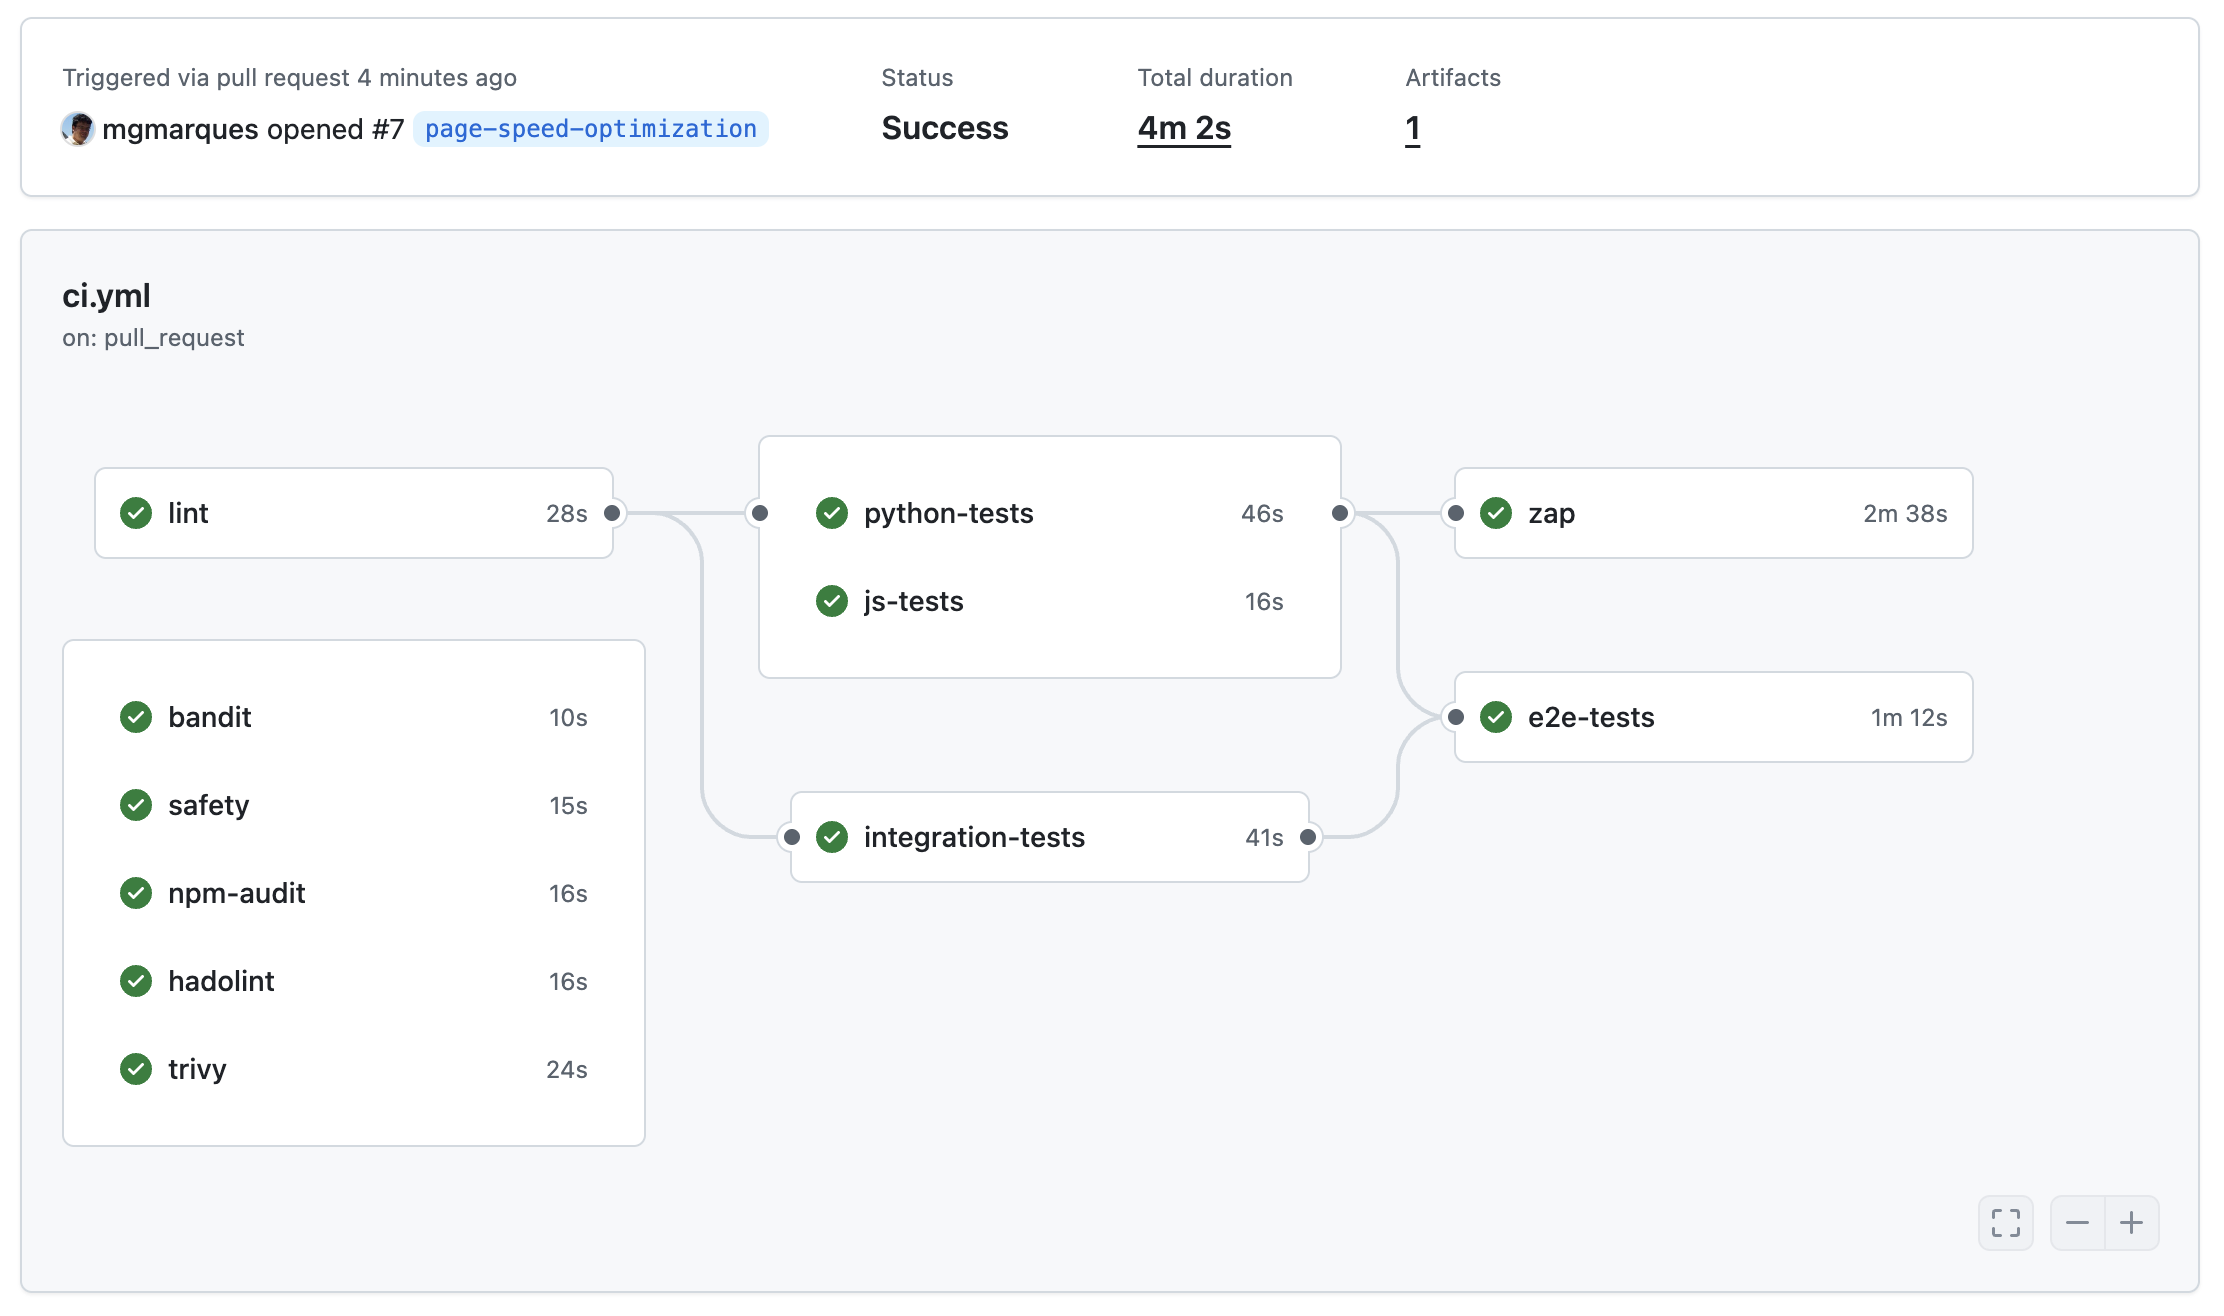
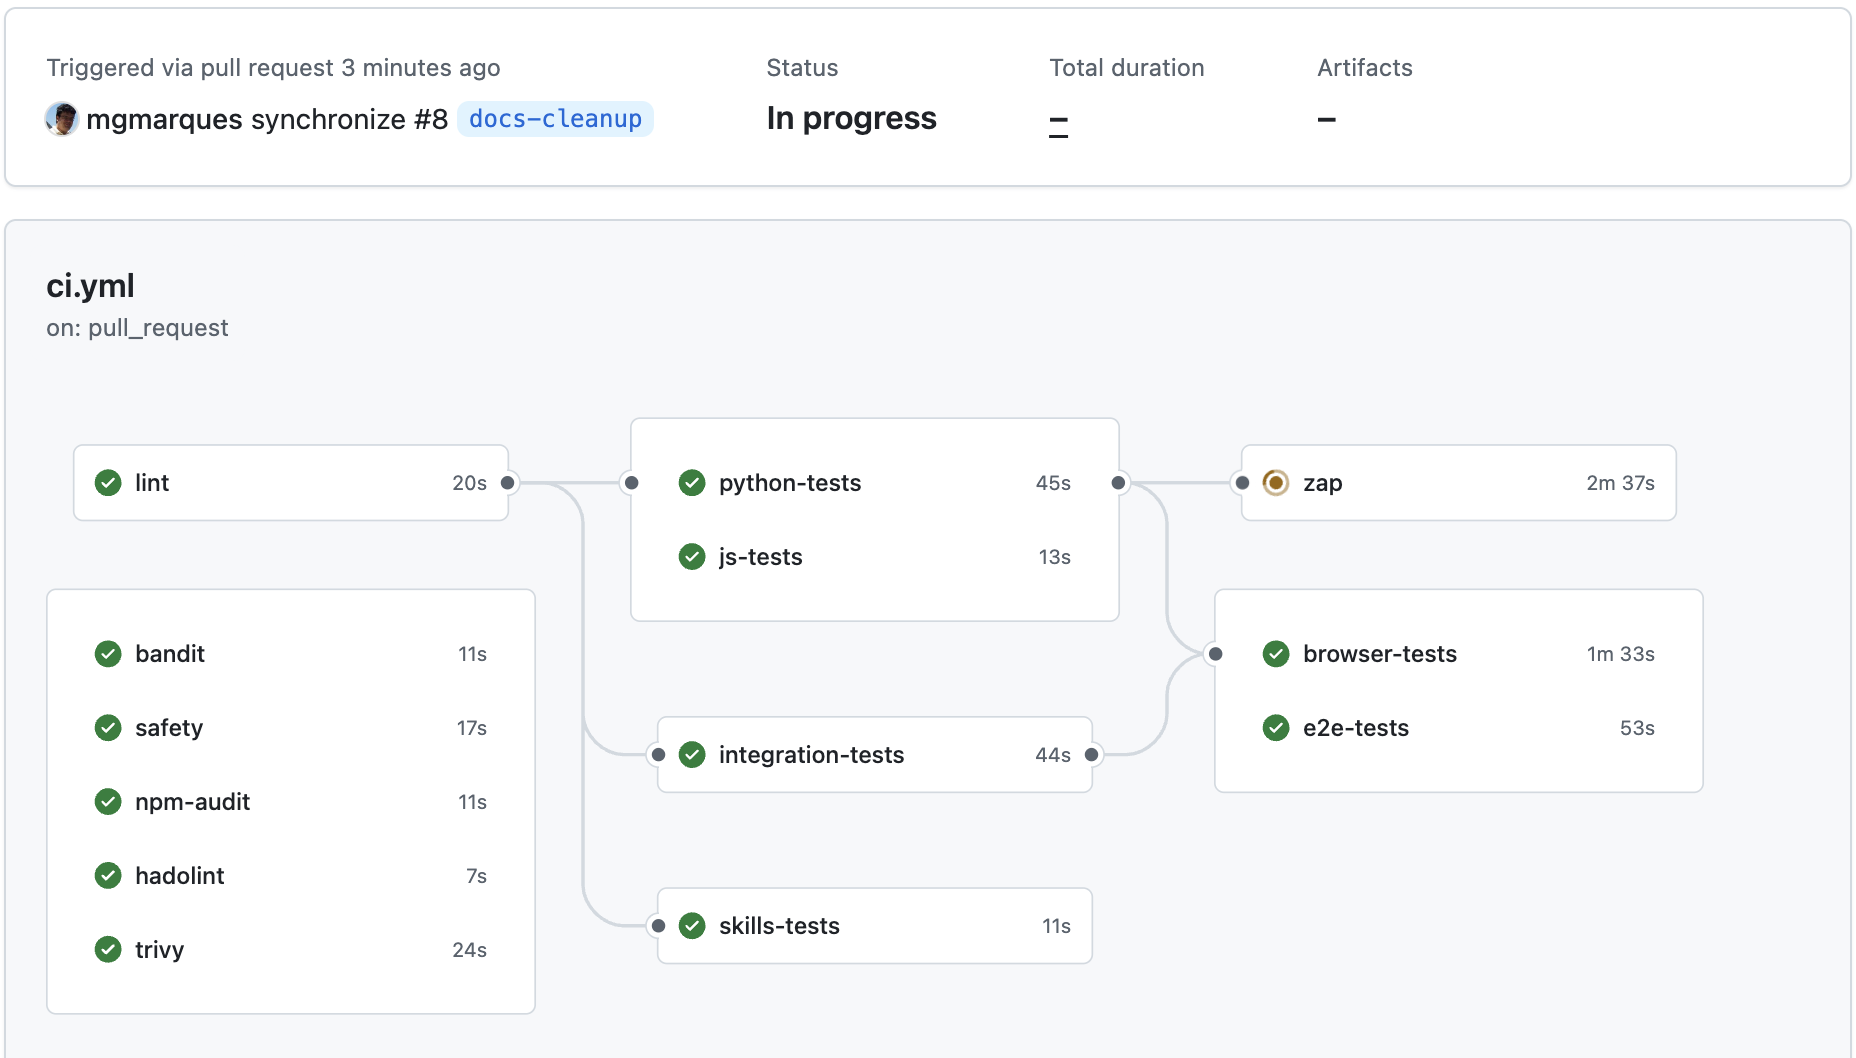
Update docs: architecture diagrams, tech-spec, V&V plan, README, CI threshold
- Add 3 new architecture diagrams (data flow, user interactions, event-driven)
- Update CI/CD diagram with browser-tests job and 18 slash commands
- Fix coverage threshold comment (98% → 95%) in generate-requirements skill
- Update V&V test plan with browser test automation status
- Remove stale !_LightMode.png, update 8_CiCD.png screenshot
- Update README with latest doc references

diff --git a/docs/architecture.md b/docs/architecture.md
@@ -4,9 +4,12 @@
 
 1. [System Architecture](#1-system-architecture)
 2. [Request Flow](#2-request-flow)
-3. [CI/CD Pipeline](#3-cicd-pipeline)
-4. [Database Schema](#4-database-schema)
-5. [Authentication Flow](#5-authentication-flow)
+3. [Data Flow — Playback & Metadata](#3-data-flow--playback--metadata)
+4. [Data Flow — User Interactions](#4-data-flow--user-interactions)
+5. [Event-Driven Architecture](#5-event-driven-architecture)
+6. [CI/CD Pipeline](#6-cicd-pipeline)
+7. [Database Schema](#7-database-schema)
+8. [Authentication Flow](#8-authentication-flow)
 
 ---
 
@@ -101,9 +104,126 @@ sequenceDiagram
 
 ---
 
-## 3. CI/CD Pipeline
+## 3. Data Flow — Playback & Metadata
 
-GitHub Actions workflow triggered on push/PR to `main`. Lint runs first, then test jobs run in parallel after lint passes. Security scans (bandit, safety, npm-audit, hadolint, trivy) run independently with no dependencies. E2E tests and ZAP DAST scan run after the test jobs complete.
+How track metadata flows from CloudFront through the player to the UI, including latency compensation, iTunes artwork caching, and history accumulation.
+
+```mermaid
+graph TD
+    Load["Page Load"] --> FM["fetchMetadata()"]
+    FM --> CF["CloudFront<br/>metadatav2.json"]
+    CF --> Delay["Latency delay<br/>(hls.latency or 6s)"]
+    Delay --> UT["updateTrack(artist, title, album)"]
+
+    UT --> DOM["Update DOM<br/>(artist, title, album)"]
+    UT --> Timer["songStartTime<br/>= Date.now()"]
+    UT --> FA["fetchArtwork()"]
+    UT --> RUI["updateRatingUI()"]
+    UT --> PH["pushHistory()"]
+
+    FA --> Cache["fetchItunesCached()<br/>(localStorage 24h TTL)"]
+    Cache --> iTunes["iTunes Search API<br/>(artwork + duration)"]
+
+    Play["User clicks Play"] --> HLS["HLS.js loads stream"]
+    HLS --> Audio["Audio plays"]
+    HLS --> FC["FRAG_CHANGED event"]
+    FC --> TMF["triggerMetadataFetch()<br/>(3s debounce)"]
+    TMF --> FM
+
+    style Load fill:#D8F2D5,stroke:#1F4E23
+    style Play fill:#D8F2D5,stroke:#1F4E23
+    style UT fill:#38A29D,stroke:#1F4E23,color:#FFF
+    style Cache fill:#EFA63C,stroke:#231F20
+```
+
+---
+
+## 4. Data Flow — User Interactions
+
+How user actions (rating, sharing, auth, profile, feedback, theme, quality) flow through the system from UI click to API/state change.
+
+```mermaid
+graph TD
+    subgraph Rating
+        RClick["Click thumbs up/down"] --> SR["submitRating(score)"]
+        SR --> PostRate["POST /api/ratings"]
+        PostRate --> FTR["fetchTrackRatings()"]
+        FTR --> Counts["Update like/dislike counts"]
+    end
+
+    subgraph Sharing
+        SClick["Click share button"] --> GST["getShareText() /<br/>getRecentlyPlayedText()"]
+        GST --> WO["window.open(URL)"]
+    end
+
+    subgraph Auth
+        Login["Submit login form"] --> PostLogin["POST /api/login"]
+        PostLogin --> Token["Store token in localStorage"]
+        Token --> Profile["showProfileView() → loadProfile()"]
+        Logout["Click logout"] --> PostLogout["POST /api/logout"]
+        PostLogout --> Clear["Clear localStorage"]
+        Clear --> AuthView["showAuthView()"]
+    end
+
+    subgraph Settings
+        Theme["Toggle theme radio"] --> AT["applyTheme()"]
+        AT --> DT["data-theme attribute"]
+        AT --> LS["localStorage rc-theme"]
+        Quality["Toggle quality radio"] --> ASQ["applyStreamQuality()"]
+        ASQ --> Init["initHls() + localStorage"]
+    end
+
+    style RClick fill:#D8F2D5,stroke:#1F4E23
+    style SClick fill:#D8F2D5,stroke:#1F4E23
+    style Login fill:#D8F2D5,stroke:#1F4E23
+    style Logout fill:#D8F2D5,stroke:#1F4E23
+    style Theme fill:#D8F2D5,stroke:#1F4E23
+    style Quality fill:#D8F2D5,stroke:#1F4E23
+```
+
+---
+
+## 5. Event-Driven Architecture
+
+All HLS.js events, audio element events, and DOM event handlers that drive the player's behavior.
+
+```mermaid
+graph LR
+    subgraph "HLS.js Events"
+        MP["MANIFEST_PARSED"] --> EnablePlay["Enable play button<br/>+ set quality level"]
+        FC["FRAG_CHANGED"] --> TMF["triggerMetadataFetch()"]
+        FPM["FRAG_PARSING_METADATA"] --> ID3["parseID3Frames()<br/>→ handleMetadataFields()"]
+        LL["LEVEL_LOADED"] --> SrcQ["Update source quality display"]
+        ERR["ERROR (fatal)"] --> Retry["Exponential backoff retry<br/>(max 10, 4s→60s)"]
+    end
+
+    subgraph "Audio Events"
+        Playing["playing"] --> PauseIcon["showPlayIcon('pause')"]
+        Waiting["waiting"] --> SpinIcon["showPlayIcon('spinner')"]
+        TimeUp["timeupdate (~4Hz)"] --> BarTime["Update elapsed / total"]
+    end
+
+    subgraph "DOM Click Handlers"
+        PlayBtn["play-btn"] --> Toggle["togglePlay()"]
+        MuteBtn["mute-btn"] --> Mute["Toggle mute/unmute"]
+        RateBtn["rate-up / rate-down"] --> Submit["submitRating(1/0)"]
+        MenuBtn["menu-btn"] --> Open["openDrawer()"]
+        CloseBtn["drawer-close"] --> Close["closeDrawer()"]
+        SettingsBtn["settings-btn"] --> Drop["Toggle dropdown"]
+    end
+
+    style MP fill:#38A29D,stroke:#1F4E23,color:#FFF
+    style FC fill:#38A29D,stroke:#1F4E23,color:#FFF
+    style ERR fill:#EFA63C,stroke:#231F20
+    style PlayBtn fill:#D8F2D5,stroke:#1F4E23
+    style RateBtn fill:#D8F2D5,stroke:#1F4E23
+```
+
+---
+
+## 6. CI/CD Pipeline
+
+GitHub Actions workflow (13 jobs) triggered on push/PR to `main`. Lint runs first, then test jobs in parallel. Security scans run independently. E2E, browser, and ZAP run after test jobs complete.
 
 ```mermaid
 graph LR
@@ -113,14 +233,18 @@ graph LR
         lint["lint<br/>ruff + ESLint<br/>+ Stylelint + HTMLHint"]
     end
 
-    lint --> python-tests["python-tests<br/>pytest + coverage<br/>(98% threshold)"]
+    lint --> python-tests["python-tests<br/>pytest + coverage<br/>(95% threshold)"]
     lint --> integration-tests["integration-tests<br/>pytest<br/>test_integration.py"]
     lint --> js-tests["js-tests<br/>Jest + coverage<br/>(90% line threshold)"]
-    lint --> skills-tests["skills-tests<br/>pytest<br/>17 slash commands"]
+    lint --> skills-tests["skills-tests<br/>pytest<br/>18 slash commands"]
 
     python-tests --> e2e-tests["e2e-tests<br/>Docker prod stack<br/>+ pytest"]
     js-tests --> e2e-tests
     integration-tests --> e2e-tests
+
+    python-tests --> browser-tests["browser-tests<br/>Selenium<br/>headless Chrome"]
+    js-tests --> browser-tests
+    integration-tests --> browser-tests
 
     python-tests --> zap["zap<br/>OWASP ZAP<br/>DAST baseline"]
     js-tests --> zap
@@ -145,6 +269,7 @@ graph LR
     style js-tests fill:#1F4E23,stroke:#231F20,color:#FFFFFF
     style skills-tests fill:#1F4E23,stroke:#231F20,color:#FFFFFF
     style e2e-tests fill:#EFA63C,stroke:#231F20,color:#231F20
+    style browser-tests fill:#EFA63C,stroke:#231F20,color:#231F20
     style zap fill:#EFA63C,stroke:#231F20,color:#231F20
     style bandit fill:#D8F2D5,stroke:#1F4E23,color:#231F20
     style safety fill:#D8F2D5,stroke:#1F4E23,color:#231F20
@@ -155,7 +280,7 @@ graph LR
 
 ---
 
-## 4. Database Schema
+## 7. Database Schema
 
 Entity-relationship diagram of the four MySQL tables. The `profiles` table has a foreign key to `users` (one-to-one). The `feedback` table stores a snapshot of the user's profile at submission time (denormalized). The `ratings` table is independent, keyed by station + IP.
 
@@ -206,7 +331,7 @@ erDiagram
 
 ---
 
-## 5. Authentication Flow
+## 8. Authentication Flow
 
 Complete lifecycle from registration through login, authenticated operations (profile and feedback), and logout. Tokens are generated server-side with `secrets.token_hex(32)` and stored in both the database and the client's `localStorage`.
 

diff --git a/docs/tech-spec.md b/docs/tech-spec.md
@@ -29,7 +29,7 @@
 
 Radio Calico is a live audio streaming web player with a Python Flask backend for track ratings, user accounts, and feedback. The application streams audio via HLS from AWS CloudFront in two user-selectable quality levels (48 kHz FLAC lossless and AAC Hi-Fi 211 kbps), displays real-time track metadata from a CloudFront JSON endpoint, fetches album artwork and duration from the iTunes Search API, and allows users to rate tracks, manage profiles, and submit feedback. All user-generated data is stored locally in MySQL.
 
-The frontend is a vanilla JavaScript single-page application with no build step or framework dependency. The backend is a stateless Flask REST API accessed through PyMySQL with parameterized queries. In production, the stack runs in Docker containers with nginx serving static files and reverse-proxying API requests to gunicorn. The project includes 399 automated tests across 5 test suites, 6 security scanning tools, 4 linters, and a GitHub Actions CI pipeline with 11 parallel jobs.
+The frontend is a vanilla JavaScript single-page application with no build step or framework dependency. The backend is a stateless Flask REST API accessed through PyMySQL with parameterized queries. In production, the stack runs in Docker containers with nginx serving static files and reverse-proxying API requests to gunicorn. The project includes 467 automated tests across 6 test suites, 6 security scanning tools, 4 linters, and a GitHub Actions CI pipeline with 13 parallel jobs.
 
 ---
 
@@ -834,14 +834,18 @@ graph LR
         lint["lint<br/>ruff + ESLint<br/>+ Stylelint + HTMLHint"]
     end
 
-    lint --> python-tests["python-tests<br/>pytest + coverage<br/>(98% threshold)"]
+    lint --> python-tests["python-tests<br/>pytest + coverage<br/>(95% threshold)"]
     lint --> integration-tests["integration-tests<br/>pytest<br/>test_integration.py"]
     lint --> js-tests["js-tests<br/>Jest + coverage<br/>(90% line threshold)"]
-    lint --> skills-tests["skills-tests<br/>pytest<br/>17 slash commands"]
+    lint --> skills-tests["skills-tests<br/>pytest<br/>18 slash commands"]
 
     python-tests --> e2e-tests["e2e-tests<br/>Docker prod stack<br/>+ pytest"]
     js-tests --> e2e-tests
     integration-tests --> e2e-tests
+
+    python-tests --> browser-tests["browser-tests<br/>Selenium<br/>headless Chrome"]
+    js-tests --> browser-tests
+    integration-tests --> browser-tests
 
     python-tests --> zap["zap<br/>OWASP ZAP<br/>DAST baseline"]
     js-tests --> zap
@@ -866,6 +870,7 @@ graph LR
     style js-tests fill:#1F4E23,stroke:#231F20,color:#FFFFFF
     style skills-tests fill:#1F4E23,stroke:#231F20,color:#FFFFFF
     style e2e-tests fill:#EFA63C,stroke:#231F20,color:#231F20
+    style browser-tests fill:#EFA63C,stroke:#231F20,color:#231F20
     style zap fill:#EFA63C,stroke:#231F20,color:#231F20
     style bandit fill:#D8F2D5,stroke:#1F4E23,color:#231F20
     style safety fill:#D8F2D5,stroke:#1F4E23,color:#231F20
@@ -874,15 +879,16 @@ graph LR
     style trivy fill:#D8F2D5,stroke:#1F4E23,color:#231F20
 ```
 
-### 9.2 Test Suites (399 Total Tests)
+### 9.2 Test Suites (467 Total Tests)
 
 | Suite | File | Tests | Tool | Coverage Threshold |
 |-------|------|-------|------|--------------------|
-| Python unit | `api/test_app.py` | 61 | pytest + pytest-cov | 98% line coverage |
+| Python unit | `api/test_app.py` | 61 | pytest + pytest-cov | 95% line coverage |
 | Python integration | `api/test_integration.py` | 19 | pytest | -- |
 | JavaScript unit | `static/js/player.test.js` | 162 | Jest + jsdom | 90% line threshold (actual ~96%) |
 | End-to-end | `tests/test_e2e.py` | 19 | pytest + requests | -- |
-| Skills validation | `tests/test_skills.py` | 138 | pytest | -- |
+| Browser | `tests/test_browser.py` | 37 | Selenium + headless Chrome | -- |
+| Skills validation | `tests/test_skills.py` | 169 | pytest | -- |
 
 **Python unit tests** (`api/test_app.py`): Cover all API endpoints, helper functions (`hash_password`, `verify_password`, `get_user_from_token`, `require_auth`), error paths, edge cases, and rate limiting. Use an isolated `radiocalico_test` database created and destroyed per test session. Fixtures: `client`, `registered_user`, `auth_token`, `auth_headers`.
 
@@ -892,7 +898,9 @@ graph LR
 
 **End-to-end tests** (`tests/test_e2e.py`): Make real HTTP requests to the full Docker production stack (nginx, gunicorn, MySQL). Validate static file serving, security headers, API proxy behavior, health checks, and error handling.
 
-**Skills validation tests** (`tests/test_skills.py`): Validate all 17 Claude Code slash commands for correct structure, version references, and file path accuracy.
+**Browser tests** (`tests/test_browser.py`): Use Selenium with headless Chrome against the Docker production stack. Validate page load, theme switching, drawer navigation, auth UI, rating buttons, share buttons, responsive layout, and settings dropdown.
+
+**Skills validation tests** (`tests/test_skills.py`): Validate all 18 Claude Code slash commands for correct structure, version references, and file path accuracy.
 
 ### 9.3 Security Scanning (6 Tools)
 

diff --git a/README.md b/README.md
@@ -516,6 +516,10 @@ graph LR
     js-tests --> e2e-tests
     integration-tests --> e2e-tests
 
+    python-tests --> browser-tests["browser-tests<br/>Selenium<br/>headless Chrome"]
+    js-tests --> browser-tests
+    integration-tests --> browser-tests
+
     python-tests --> zap["zap<br/>OWASP ZAP<br/>DAST baseline"]
     js-tests --> zap
 
@@ -539,6 +543,7 @@ graph LR
     style js-tests fill:#1F4E23,stroke:#231F20,color:#FFFFFF
     style skills-tests fill:#1F4E23,stroke:#231F20,color:#FFFFFF
     style e2e-tests fill:#EFA63C,stroke:#231F20,color:#231F20
+    style browser-tests fill:#EFA63C,stroke:#231F20,color:#231F20
     style zap fill:#EFA63C,stroke:#231F20,color:#231F20
     style bandit fill:#D8F2D5,stroke:#1F4E23,color:#231F20
     style safety fill:#D8F2D5,stroke:#1F4E23,color:#231F20
@@ -551,6 +556,7 @@ graph LR
 |-----|-------------|
 | `python-tests` | pytest + coverage (95% threshold) with MySQL service |
 | `js-tests` | Jest + coverage (90% lines threshold) |
+| `browser-tests` | Selenium + headless Chrome against Docker prod stack |
 | `bandit` | Python SAST |
 | `safety` | Python dependency scan |
 | `npm-audit` | JS dependency scan |
@@ -738,10 +744,10 @@ Detailed project documentation is available in the [`docs/`](docs/) directory:
 
 | Document | Description |
 |----------|-------------|
-| [Architecture Diagrams](docs/architecture.md) | 5 Mermaid diagrams: system architecture, request flow, CI/CD pipeline, database schema, and authentication flow. Visual reference for how all components connect across the Docker production stack. |
+| [Architecture Diagrams](docs/architecture.md) | 8 Mermaid diagrams: system architecture, request flow, data flow (playback & user interactions), event-driven architecture, CI/CD pipeline, database schema, and authentication flow. Visual reference for how all components connect across the Docker production stack. |
 | [Technical Specification](docs/tech-spec.md) | Comprehensive 13-section technical spec covering API reference (10 endpoints), deployment architecture, observability (structured JSON logging with X-Request-ID correlation), testing strategy (467 tests across 6 suites), security measures, and performance optimizations. |
 | [Requirements](docs/requirements.md) | 91 requirements: 53 functional (FR-1xx to FR-8xx covering streaming, metadata, ratings, auth, profiles, feedback, sharing, and theme) and 38 non-functional (NFR-1xx to NFR-6xx covering performance, security, reliability, observability, maintainability, and compatibility). Includes traceability matrix linking each requirement to its implementation and tests. |
-| [V&V Test Plan](docs/vv-test-plan.md) | 52 user-perspective test cases (TC-1xx to TC-9xx) with step-by-step procedures, expected results, and automated test mapping. Includes manual test procedures for audio playback, automated coverage matrix across all 5 test suites, and an execution summary template. |
+| [V&V Test Plan](docs/vv-test-plan.md) | 52 user-perspective test cases (TC-1xx to TC-9xx) with step-by-step procedures, expected results, and automated test mapping. Includes manual test procedures for audio playback, automated coverage matrix across all 6 test suites, and an execution summary template. |
 | [Design Document](design.md) | Original architecture and design document from the initial prototype phase. |
 
 ---
@@ -761,7 +767,7 @@ This project is fully optimized for [Claude Code](https://claude.ai/claude-code)
 │   ├── testing.md         # 467 tests, 6 suites, CI/CD pipeline
 │   ├── database.md        # MySQL schema, 4 tables, constraints
 │   └── style-guide.md     # CSS tokens, code conventions, formats
-├── commands/              # Slash commands (17 total, all v1.0.0)
+├── commands/              # Slash commands (18 total, all v1.0.0)
 │   ├── start.md           # /start — launch dev environment
 │   ├── run-ci.md          # /run-ci — lint + tests + security
 │   ├── create-pr.md       # /create-pr — branch, commit, push, PR

diff --git a/docs/vv-test-plan.md b/docs/vv-test-plan.md
@@ -641,11 +641,11 @@ This Verification & Validation (V&V) test plan ensures that Radio Calico meets a
 - Requirement: NFR-505
 - Precondition: Claude Code environment with project loaded
 - Steps:
-  1. Verify 17 slash command files exist in `.claude/commands/`
+  1. Verify 18 slash command files exist in `.claude/commands/`
   2. Run `/start` to verify the dev environment launch command works
   3. Run `/run-ci` to verify the CI pipeline command works
-- Expected result: All 17 slash commands are present and parseable. They provide automated workflows for development, testing, and deployment tasks.
-- Automated: Yes — `tests/test_skills.py` (58 tests validate all slash commands)
+- Expected result: All 18 slash commands are present and parseable. They provide automated workflows for development, testing, and deployment tasks.
+- Automated: Yes — `tests/test_skills.py` (169 tests validate all slash commands)
 
 ---
 

diff --git a/.claude/commands/generate-requirements.md b/.claude/commands/generate-requirements.md
@@ -85,9 +85,9 @@ Create/update `docs/requirements.md` with a structured requirements document.
    - X-Request-ID cross-layer correlation
 
    **NFR-5xx: Maintainability**:
-   - 373 tests across 5 suites, 98% Python coverage, 96% JS coverage
-   - 4 linters, CI/CD with 12 GitHub Actions jobs
-   - 15 Claude Code slash commands
+   - 467 tests across 6 suites, 95% Python coverage, 96% JS coverage
+   - 4 linters, CI/CD with 13 GitHub Actions jobs
+   - 18 Claude Code slash commands
 
    **NFR-6xx: Compatibility**:
    - HLS.js for non-Safari, native HLS for Safari

diff --git a/.claude/skills/generate-requirements/SKILL.md b/.claude/skills/generate-requirements/SKILL.md
@@ -85,9 +85,9 @@ Create/update `docs/requirements.md` with a structured requirements document.
    - X-Request-ID cross-layer correlation
 
    **NFR-5xx: Maintainability**:
-   - 373 tests across 5 suites, 98% Python coverage, 96% JS coverage
-   - 4 linters, CI/CD with 12 GitHub Actions jobs
-   - 15 Claude Code slash commands
+   - 467 tests across 6 suites, 95% Python coverage, 96% JS coverage
+   - 4 linters, CI/CD with 13 GitHub Actions jobs
+   - 18 Claude Code slash commands
 
    **NFR-6xx: Compatibility**:
    - HLS.js for non-Safari, native HLS for Safari
